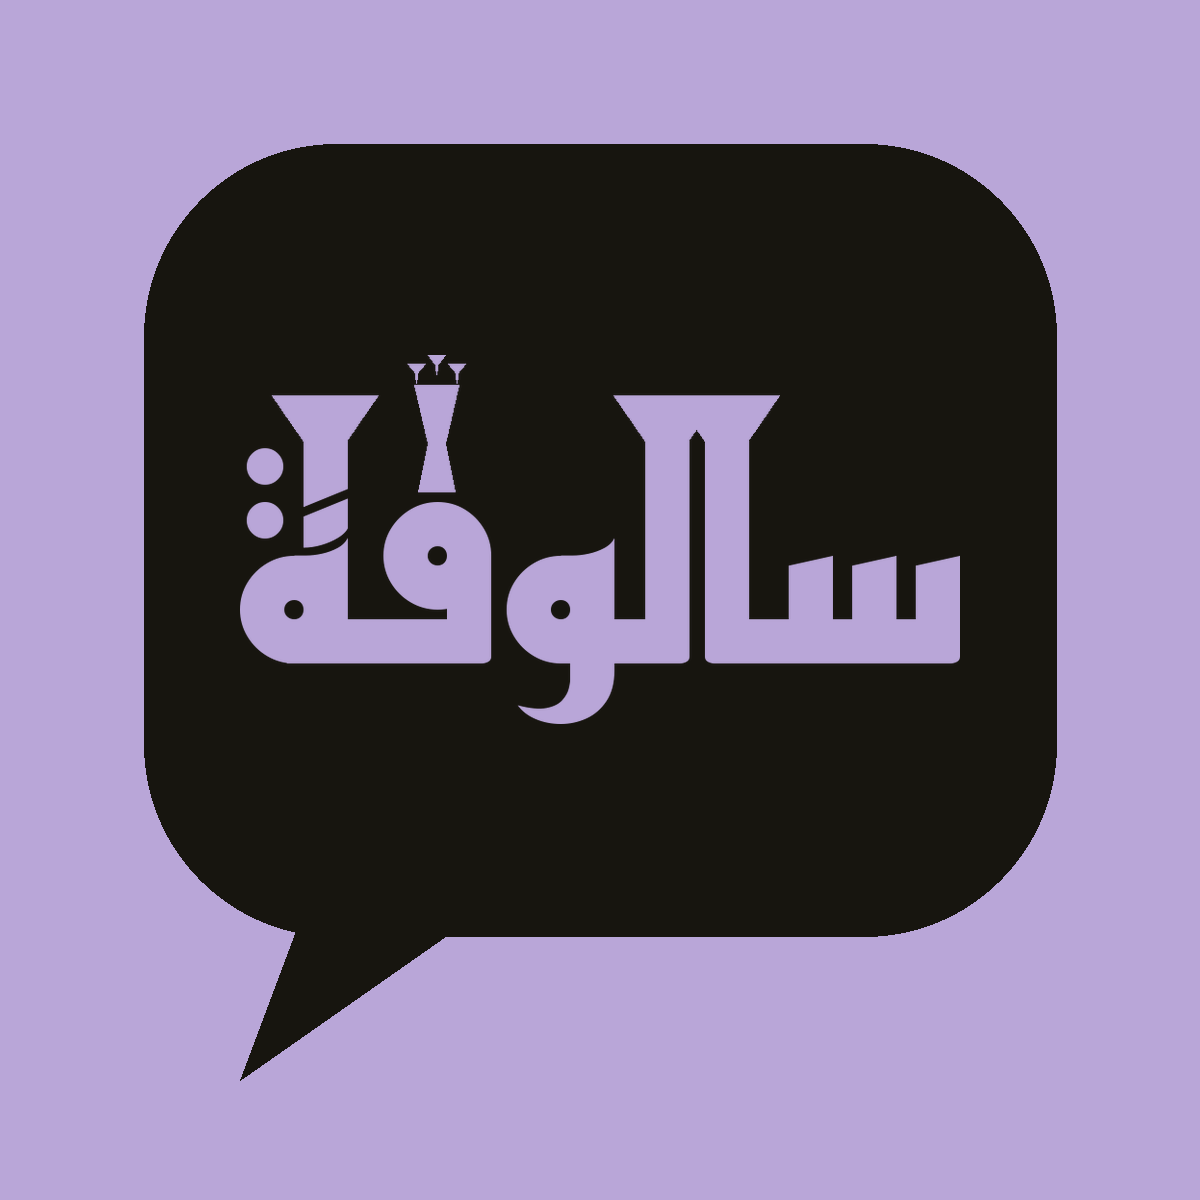
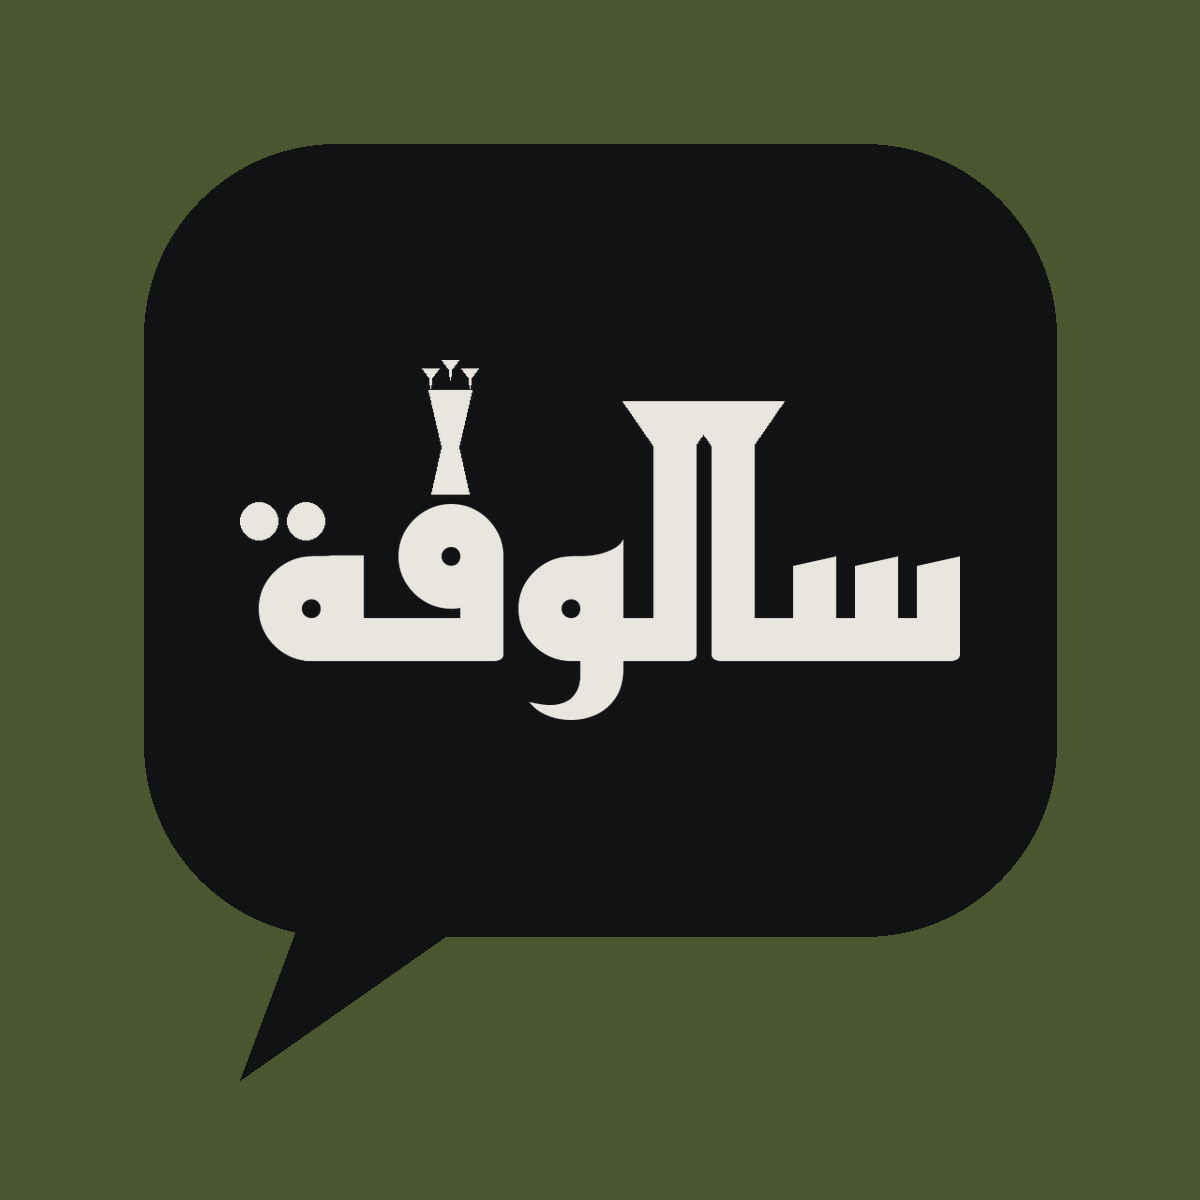
هوية سالوفة: ألوان غامقة (أسود وزيتوني ورصاصي ونيلي ونفطي)، ونقاط الفاء والتاء واضحة
Claude-Session: https://claude.ai/code/session_017qN4NgwwvAUrzDHBs6DG77

diff --git a/brand/salufa/identity.py b/brand/salufa/identity.py
@@ -1,109 +1,139 @@
-"""هوية "سالوفة" الكاملة، من التصميم الي اختاره صاحب القناة (الليلكي، وروس الحروف مسامير).
+"""هوية "سالوفة" الكاملة، من التصميم الي اختاره صاحب القناة (روس الحروف مسامير، خط ReemKufi).
 
     python3 brand/salufa/identity.py -o brand/salufa/identity
 
-يطلع:
-  main.png        الشعار الأساسي (ليلكي وحبر)
-  dark.png        النسخة الغامقة
-  istikan.png     نقطة الفاء استكان چاي وبخاره مسماري (لمسة السالوفة)
-  cuneiform.png   نقاط التاء أسافين، وتحت الكلمة التوقيع المسماري
-  bubble.png      الشعار جوه فقاعة حچي (صورة الحساب)
-  watermark.png   العلامة الشفافة للفيديو (أبيض)، و watermark-ink.png (حبر)
-  mockup.jpg      شكل العلامة على فيديو
-  board.jpg       كلشي بورقة وحدة، ويا الألوان
+الألوان (طلبه، 22 تشرين الأول 2026): أسود، وزيتوني، ورصاصي، ونيلي، ونفطي. ماكو ألوان بناتية.
+النقاط مرسومة بإيدنا حتى تبين واضحة: نقطة الفاء دائرة مدوّرة، ونقطتين التاء جنب بعض فوق التاء
+(الخط الأصلي يحطهن فوق بعض ولاصقات، فما يبينن). وبعض النسخ النقاط بلون ثاني حتى تبرز.
 """
 import argparse
 import sys
 from pathlib import Path
 
-from PIL import Image, ImageDraw, ImageFilter
+from PIL import Image, ImageChops, ImageDraw, ImageFilter
 
 sys.path.insert(0, str(Path(__file__).resolve().parent))
-import logos  # noqa: E402
-from logos import (CREAM, INK, LILAC, OLIVE, SAFFRON, CUNEI_WORD, compose, dot_blobs, font,  # noqa: E402
-                   rgb, shape_word, wedge, wedge_heads)
+from logos import CUNEI_WORD, dot_blobs, font, rgb, shape_word, wedge, wedge_heads  # noqa: E402
 
-FONT = "ReemKufi-Variable.ttf"
-PX = 330
+FONT, PX, S = "ReemKufi-Variable.ttf", 330, 1200
+BLACK, OLIVE, OLIVE_LIGHT = "#111214", "#4B5530", "#A3AD6E"
+LEAD, LEAD_LIGHT, INDIGO, PETROL, BONE = "#6E7378", "#C9CCCF", "#2A3478", "#134A55", "#E9E6DF"
 TAGLINE = "سوالف من الزمن الأول"
-LILAC_DEEP = "#8F78C2"
 
 
-def word(fa_dot="round"):
-    """الكلمة وروسها مسامير، والتاء المربوطة مثل الخط. نقطة الفاء حسب الطلب:
-    round = دائرة مثل الخط، wedge = إسفين مسماري، istikan = استكان چاي وبخاره مسماري."""
+def layers(fa_dot="round", ta_dots="round"):
+    """يرجع (قناع الحروف، قناع النقاط) منفصلين، حتى النقاط تاخذ لون ثاني إذا ردنا.
+
+    fa_dot: round | wedge | istikan.  ta_dots: round | wedge.
+    """
     f = font(FONT, PX)
-    blobs, m = dot_blobs("سالوفة", "سالوڡة", f)
-    m = wedge_heads(m, 1.2)
-    d = ImageDraw.Draw(m)
-    x, y, w, h = max(blobs, key=lambda b: b[2] * b[3])  # نقطة الفاء
-    r = h / 2
-    if fa_dot == "wedge":
-        wedge(d, x, y - r * 0.9, h * 1.15)
-    elif fa_dot == "istikan":
-        hh = h * 2.9
-        ww = hh * 0.42
-        base = y + r
-        top, mid = base - hh, base - hh * 0.45
-        d.polygon([(x - ww / 2, top), (x + ww / 2, top), (x + ww * 0.2, mid), (x + ww * 0.42, base),
-                   (x - ww * 0.42, base), (x - ww * 0.2, mid)], fill=255)
-        for k in range(3):  # بخار مسماري
-            wedge(d, x + (k - 1) * ww * 0.45, top - hh * 0.2 - (k == 1) * hh * 0.08, ww * 0.32)
-    else:
-        d.ellipse((x - r, y - r, x + r, y + r), fill=255)
-    return m
+    fa, _ = dot_blobs("سالوفة", "سالوڡة", f)
+    ta, body = dot_blobs("سالوڡة", "سالوڡه", f)
+    fx, fy, fw, fh = fa[0]
+    r = max(fw, fh) / 2 * 1.05
+    tx = ta[0][0]
+    tops = [body.crop((int(tx + k), 0, int(tx + k) + 1, body.height)).getbbox() for k in range(-30, 31, 6)]
+    bowl_top = min(t[1] for t in tops if t)
+    # التاء بهذا الخط إلها خط طويل فوق (يخليها تشبه اللام): نشيله، ونخلي القوس بس
+    ImageDraw.Draw(body).rectangle((0, 0, int(fx - fw * 2), int(bowl_top) - 2), fill=0)
+    body = wedge_heads(body, 1.2)
+    dots = Image.new("L", body.size)
+    d = ImageDraw.Draw(dots)
+    # نقطتين التاء: جنب بعض، فوق قوس التاء بمسافة واضحة
+    ty = bowl_top - r * 1.9
+    gap = r * 1.25
+    for x, y, style in ((fx, fy, fa_dot), (tx - gap, ty, ta_dots), (tx + gap, ty, ta_dots)):
+        if style == "wedge":
+            wedge(d, x, y - r * 0.9, r * 2.3)
+        elif style == "istikan":
+            hh = r * 5.6
+            ww = hh * 0.42
+            base = y + r
+            top, mid = base - hh, base - hh * 0.45
+            d.polygon([(x - ww / 2, top), (x + ww / 2, top), (x + ww * 0.2, mid), (x + ww * 0.42, base),
+                       (x - ww * 0.42, base), (x - ww * 0.2, mid)], fill=255)
+            for k in range(3):  # بخار مسماري
+                wedge(d, x + (k - 1) * ww * 0.45, top - hh * 0.2 - (k == 1) * hh * 0.08, ww * 0.32)
+        else:
+            d.ellipse((x - r, y - r, x + r, y + r), fill=255)
+    return body, dots
 
 
-def clear(mask, color):
-    crop = mask.crop(mask.getbbox())
+def compose(body, dots, bg, fg, dot_color=None, tagline=TAGLINE, tag_color=None, cunei=False, size=S):
+    img = Image.new("RGB", (size, size), rgb(bg))
+    both = ImageChops.lighter(body, dots)
+    box = both.getbbox()
+    cw, ch = box[2] - box[0], box[3] - box[1]
+    tw = int(size * 0.72)
+    th = int(ch * tw / cw)
+    x0, y0 = (size - tw) // 2, int(size * 0.44 - th / 2)
+    for mask, color in ((body, fg), (dots, dot_color or fg)):
+        part = mask.crop(box).resize((tw, th), Image.LANCZOS)
+        img.paste(rgb(color), (x0, y0), part)
+    d = ImageDraw.Draw(img)
+    yy = y0 + th + size * 0.08
+    if cunei:
+        d.text((size / 2, yy), CUNEI_WORD, font=font("NotoSansCuneiform-Regular.ttf", int(size * 0.05)),
+               fill=rgb(tag_color or fg), anchor="mm")
+        yy += size * 0.08
+    if tagline:
+        t, kw = shape_word(tagline)
+        d.text((size / 2, yy), t, font=font("Alexandria-Variable.ttf", int(size * 0.034)),
+               fill=rgb(tag_color or fg), anchor="mm", **kw)
+    return img
+
+
+def clear(body, dots, color):
+    both = ImageChops.lighter(body, dots)
+    crop = both.crop(both.getbbox())
     out = Image.new("RGBA", crop.size, rgb(color) + (0,))
     out.putalpha(crop)
     return out
 
 
-def bubble(mask, size=1200):
-    """الشعار جوه فقاعة حچي غامقة (صورة الحساب والأيقونة)."""
-    img = Image.new("RGB", (size, size), rgb(LILAC))
+def bubble(body, dots, bg, bubble_color, fg, size=S):
+    """الشعار جوه فقاعة حچي (صورة الحساب)."""
+    img = Image.new("RGB", (size, size), rgb(bg))
     d = ImageDraw.Draw(img)
     pad = size * 0.12
-    d.rounded_rectangle((pad, pad, size - pad, size * 0.78), radius=size * 0.16, fill=rgb(INK))
-    d.polygon([(size * 0.26, size * 0.74), (size * 0.40, size * 0.76), (size * 0.2, size * 0.9)], fill=rgb(INK))
-    crop = mask.crop(mask.getbbox())
+    d.rounded_rectangle((pad, pad, size - pad, size * 0.78), radius=size * 0.16, fill=rgb(bubble_color))
+    d.polygon([(size * 0.26, size * 0.74), (size * 0.40, size * 0.76), (size * 0.2, size * 0.9)],
+              fill=rgb(bubble_color))
+    both = ImageChops.lighter(body, dots)
+    crop = both.crop(both.getbbox())
     tw = int(size * 0.6)
     th = int(crop.height * tw / crop.width)
-    wd = crop.resize((tw, th), Image.LANCZOS)
-    img.paste(rgb(LILAC), ((size - tw) // 2, int(size * 0.45 - th / 2)), wd)
+    img.paste(rgb(fg), ((size - tw) // 2, int(size * 0.45 - th / 2)), crop.resize((tw, th), Image.LANCZOS))
     return img
 
 
 def mockup(mark):
     """العلامة البيضاء بزاوية فيديو (فوق يسار، شفافية 70%، 12% من العرض)."""
     W, H = 1600, 900
-    frame = Image.linear_gradient("L").resize((W, H)).rotate(90, expand=False)
-    bg = Image.merge("RGB", [frame.point(lambda v: 40 + v // 5), frame.point(lambda v: 35 + v // 6),
-                             frame.point(lambda v: 50 + v // 4)])
+    g = Image.linear_gradient("L").resize((W, H)).rotate(90)
+    bg = Image.merge("RGB", [g.point(lambda v: 18 + v // 8), g.point(lambda v: 30 + v // 7), g.point(lambda v: 34 + v // 6)])
     d = ImageDraw.Draw(bg)
-    d.ellipse((900, 200, 1350, 900), fill=(70, 62, 88))          # شكل مقدم تقريبي (مكان الوجه)
-    d.ellipse((1020, 120, 1230, 360), fill=(90, 80, 110))
+    d.ellipse((900, 200, 1350, 900), fill=(48, 60, 64))
+    d.ellipse((1020, 120, 1230, 360), fill=(64, 76, 80))
     bg = bg.filter(ImageFilter.GaussianBlur(6))
     w = int(W * 0.12)
     m = mark.resize((w, int(mark.height * w / mark.width)), Image.LANCZOS)
-    alpha = m.getchannel("A").point(lambda v: int(v * 0.7))
-    m.putalpha(alpha)
+    m.putalpha(m.getchannel("A").point(lambda v: int(v * 0.7)))
     bg.paste(m, (int(W * 0.035), int(H * 0.05)), m)
     return bg
 
 
 def palette_strip(width):
-    colors = [(LILAC, "ليلكي"), (INK, "حبر"), (CREAM, "كريمي"), (OLIVE, "زيتوني"), (SAFFRON, "زعفراني")]
-    img = Image.new("RGB", (width, 150), rgb("#EDE6D8"))
+    colors = [(BLACK, "أسود"), (OLIVE, "زيتوني"), (LEAD, "رصاصي"), (INDIGO, "نيلي"), (PETROL, "نفطي"),
+              (BONE, "عاجي")]
+    img = Image.new("RGB", (width, 160), rgb("#1A1B1D"))
     d = ImageDraw.Draw(img)
     w = width // len(colors)
     f = font("Alexandria-Variable.ttf", 24)
     for i, (c, name) in enumerate(colors):
-        d.rectangle((i * w + 20, 10, (i + 1) * w - 20, 100), fill=rgb(c))
+        d.rectangle((i * w + 16, 12, (i + 1) * w - 16, 100), fill=rgb(c), outline=rgb("#3A3B3E"), width=2)
         t, kw = shape_word(f"{name} {c}")
-        d.text((i * w + w / 2, 125), t, font=f, fill=rgb(INK), anchor="mm", **kw)
+        d.text((i * w + w / 2, 132), t, font=f, fill=rgb(BONE), anchor="mm", **kw)
     return img
 
 
@@ -113,42 +143,51 @@ def main(argv=None) -> int:
     args = ap.parse_args(argv)
     out = Path(args.out)
     out.mkdir(parents=True, exist_ok=True)
-    base = word()
-    pieces = {
-        "main": compose(base, LILAC, INK, tagline=TAGLINE, accent=INK),
-        "dark": compose(base, INK, LILAC, tagline=TAGLINE, accent=CREAM),
-        "istikan": compose(word(fa_dot="istikan"), LILAC, INK, tagline="تعالوا أحچيلكم", accent=INK),
-        "cuneiform": compose(word(fa_dot="wedge"), CREAM, INK, cunei=True, accent=LILAC_DEEP),
-        "bubble": bubble(word(fa_dot="istikan")),
-    }
-    for name, img in pieces.items():
-        img.save(out / f"{name}.png")
-    mark = clear(word(fa_dot="istikan"), "#FFFFFF")
+    for old in out.glob("*"):
+        old.unlink()
+    plain = layers()
+    ist = layers(fa_dot="istikan")
+    cun = layers(fa_dot="wedge", ta_dots="wedge")
+    pieces = [
+        ("main", "1. الأساسي: أسود، والنقاط زيتوني", compose(*plain, BLACK, BONE, OLIVE_LIGHT, tag_color=LEAD_LIGHT)),
+        ("petrol", "2. نفطي", compose(*plain, PETROL, BONE, tag_color=LEAD_LIGHT)),
+        ("indigo", "3. نيلي", compose(*plain, INDIGO, BONE, LEAD_LIGHT, tag_color=LEAD_LIGHT)),
+        ("olive", "4. زيتوني", compose(*plain, OLIVE, BLACK, BONE, tag_color=BLACK)),
+        ("lead", "5. رصاصي", compose(*plain, LEAD_LIGHT, BLACK, PETROL, tag_color=BLACK)),
+        ("istikan", "6. نقطة الفاء استكان چاي", compose(*ist, BLACK, BONE, OLIVE_LIGHT, "تعالوا أحچيلكم",
+                                                        LEAD_LIGHT)),
+        ("cuneiform", "7. النقاط أسافين، والتوقيع المسماري", compose(*cun, PETROL, BONE, OLIVE_LIGHT, None,
+                                                                     LEAD_LIGHT, cunei=True)),
+        ("bubble", "8. صورة الحساب", bubble(*ist, OLIVE, BLACK, BONE)),
+    ]
+    for key, _, img in pieces:
+        img.save(out / f"{key}.png")
+    mark = clear(*ist, "#FFFFFF")
     mark.save(out / "watermark.png")
-    clear(word(fa_dot="istikan"), INK).save(out / "watermark-ink.png")
+    clear(*ist, BLACK).save(out / "watermark-black.png")
     mock = mockup(mark)
     mock.save(out / "mockup.jpg", quality=92)
-    # ورقة وحدة: 5 نسخ + الفيديو + الألوان
-    tile, gap = 560, 24
-    Wd = 3 * tile + 4 * gap
-    board = Image.new("RGB", (Wd, 96 + 2 * (tile + 60) + 170), rgb("#EDE6D8"))
+    tile, gap, cols = 430, 22, 4
+    Wd = cols * tile + (cols + 1) * gap
+    rows = 2
+    Ht = 96 + rows * (tile + 56) + int(Wd * 9 / 32) + 70 + 170
+    board = Image.new("RGB", (Wd, Ht), rgb("#1A1B1D"))
     d = ImageDraw.Draw(board)
     t, kw = shape_word("هوية سالوفة")
-    d.text((Wd / 2, 52), t, font=font("Alexandria-Variable.ttf", 44), fill=rgb(INK), anchor="mm", **kw)
-    names = {"main": "1. الأساسي", "dark": "2. الغامق", "istikan": "3. نقطة الفاء استكان",
-             "cuneiform": "4. نقطة الفاء مسمار، والتوقيع المسماري", "bubble": "5. صورة الحساب"}
-    fs = font("Alexandria-Variable.ttf", 26)
-    for i, (key, img) in enumerate(pieces.items()):
-        x = gap + (i % 3) * (tile + gap)
-        y = 96 + (i // 3) * (tile + 60)
+    d.text((Wd / 2, 52), t, font=font("Alexandria-Variable.ttf", 44), fill=rgb(BONE), anchor="mm", **kw)
+    fs = font("Alexandria-Variable.ttf", 22)
+    for i, (_, name, img) in enumerate(pieces):
+        x = gap + (i % cols) * (tile + gap)
+        y = 96 + (i // cols) * (tile + 56)
         board.paste(img.resize((tile, tile), Image.LANCZOS), (x, y))
-        t, kw = shape_word(names[key])
-        d.text((x + tile / 2, y + tile + 30), t, font=fs, fill=rgb(INK), anchor="mm", **kw)
-    x, y = gap + 2 * (tile + gap), 96 + tile + 60
-    board.paste(mock.resize((tile, int(tile * 9 / 16)), Image.LANCZOS), (x, y + 120))
-    t, kw = shape_word("6. العلامة على الفيديو")
-    d.text((x + tile / 2, y + tile + 30), t, font=fs, fill=rgb(INK), anchor="mm", **kw)
-    board.paste(palette_strip(Wd), (0, board.height - 160))
+        t, kw = shape_word(name)
+        d.text((x + tile / 2, y + tile + 28), t, font=fs, fill=rgb(BONE), anchor="mm", **kw)
+    y = 96 + rows * (tile + 56)
+    mw = Wd // 2
+    board.paste(mock.resize((mw, int(mw * 9 / 16)), Image.LANCZOS), ((Wd - mw) // 2, y))
+    t, kw = shape_word("9. العلامة على الفيديو")
+    d.text((Wd / 2, y + int(mw * 9 / 16) + 30), t, font=fs, fill=rgb(BONE), anchor="mm", **kw)
+    board.paste(palette_strip(Wd), (0, Ht - 165))
     board.save(out / "board.jpg", quality=92)
     print(f"✓ انرسمت الهوية بـ {out}")
     return 0

diff --git a/brand/salufa/plan.md b/brand/salufa/plan.md
@@ -38,3 +38,7 @@
 صاحب القناة اختار: **الليلكي، وروس الحروف مسامير** (خط ReemKufi، والألف واللام والتاء روسها أسافين عريضة، والسطر "سوالف من الزمن الأول").
 - الهوية الكاملة: `python3 brand/salufa/identity.py -o brand/salufa/identity` ← `board.jpg` (الأساسي، والغامق، ونقطة الفاء استكان، ونقطة الفاء مسمار ويا التوقيع المسماري، وصورة الحساب بفقاعة حچي، والعلامة على الفيديو).
 - العلامة الشفافة للفيديو: `identity/watermark.png` (أبيض) و`identity/watermark-ink.png` (حبر). مكانها فوق يسار، شفافية 70%، و12% من العرض.
+
+## التعديل الأول على المختار (22 تشرين الأول 2026)
+- **الألوان:** رفض الليلكي ("بناتية بزيادة"). الجديدة: أسود `#111214`، وزيتوني `#4B5530`، ورصاصي `#6E7378`، ونيلي `#2A3478`، ونفطي `#134A55`، وعاجي `#E9E6DF` للحروف.
+- **النقاط:** نقطة الفاء دائرة واضحة، ونقطتين التاء جنب بعض فوق قوسها (الخط الأصلي يحطهن فوق بعض ولاصقات). شلنا الخط الطويل من التاء حتى ما تشبه اللام. النقاط بلون ثاني بالأساسي (زيتوني) حتى تبرز.
